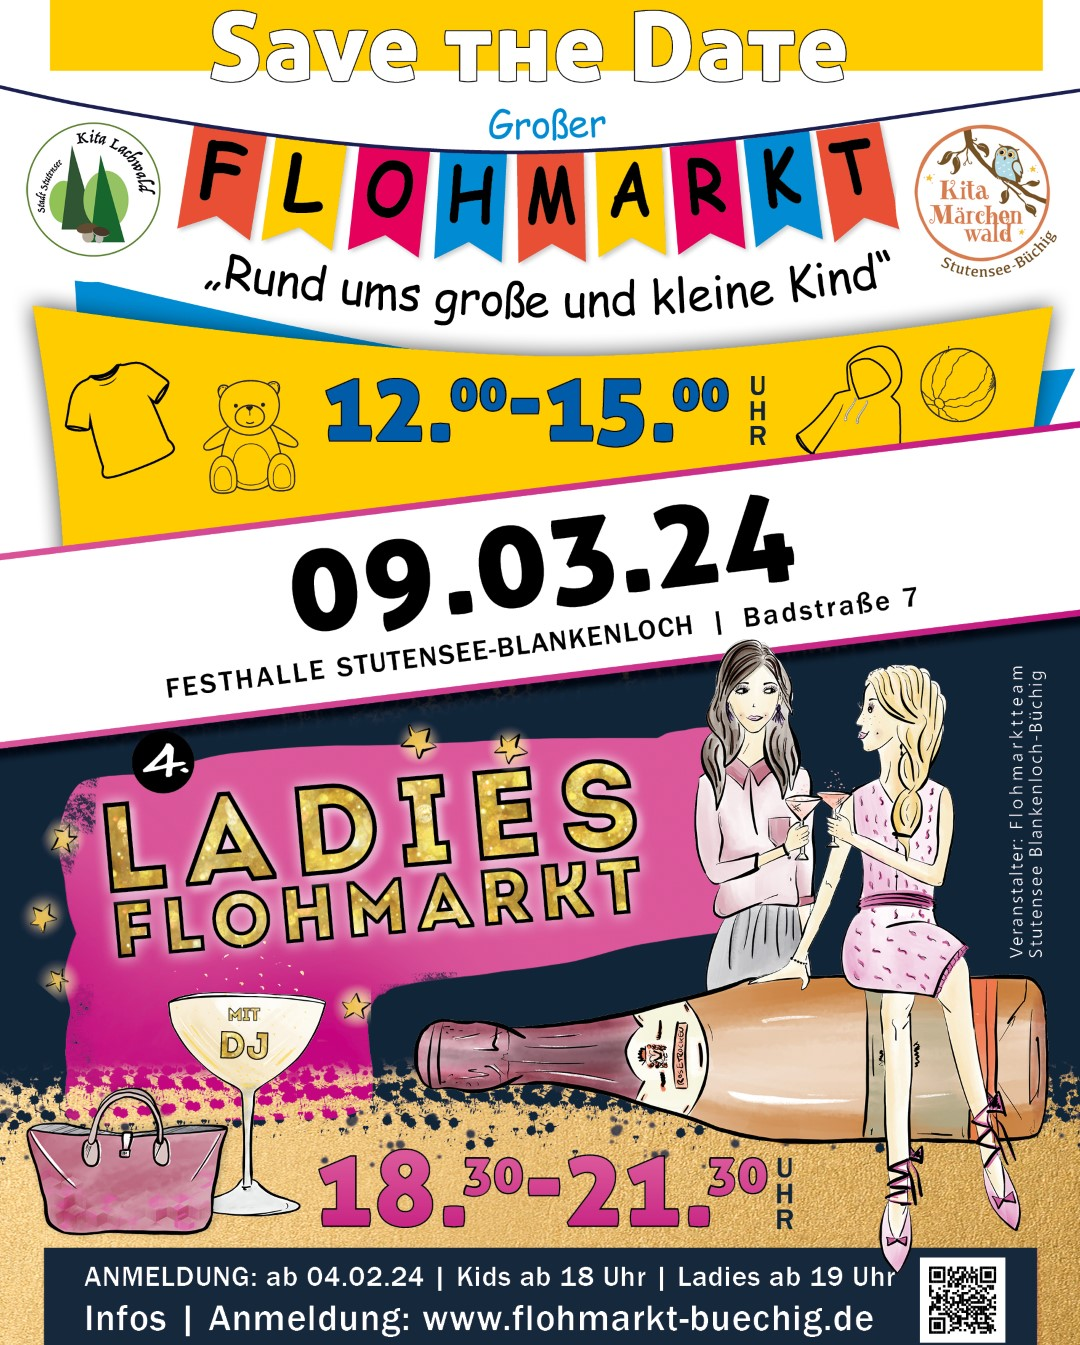
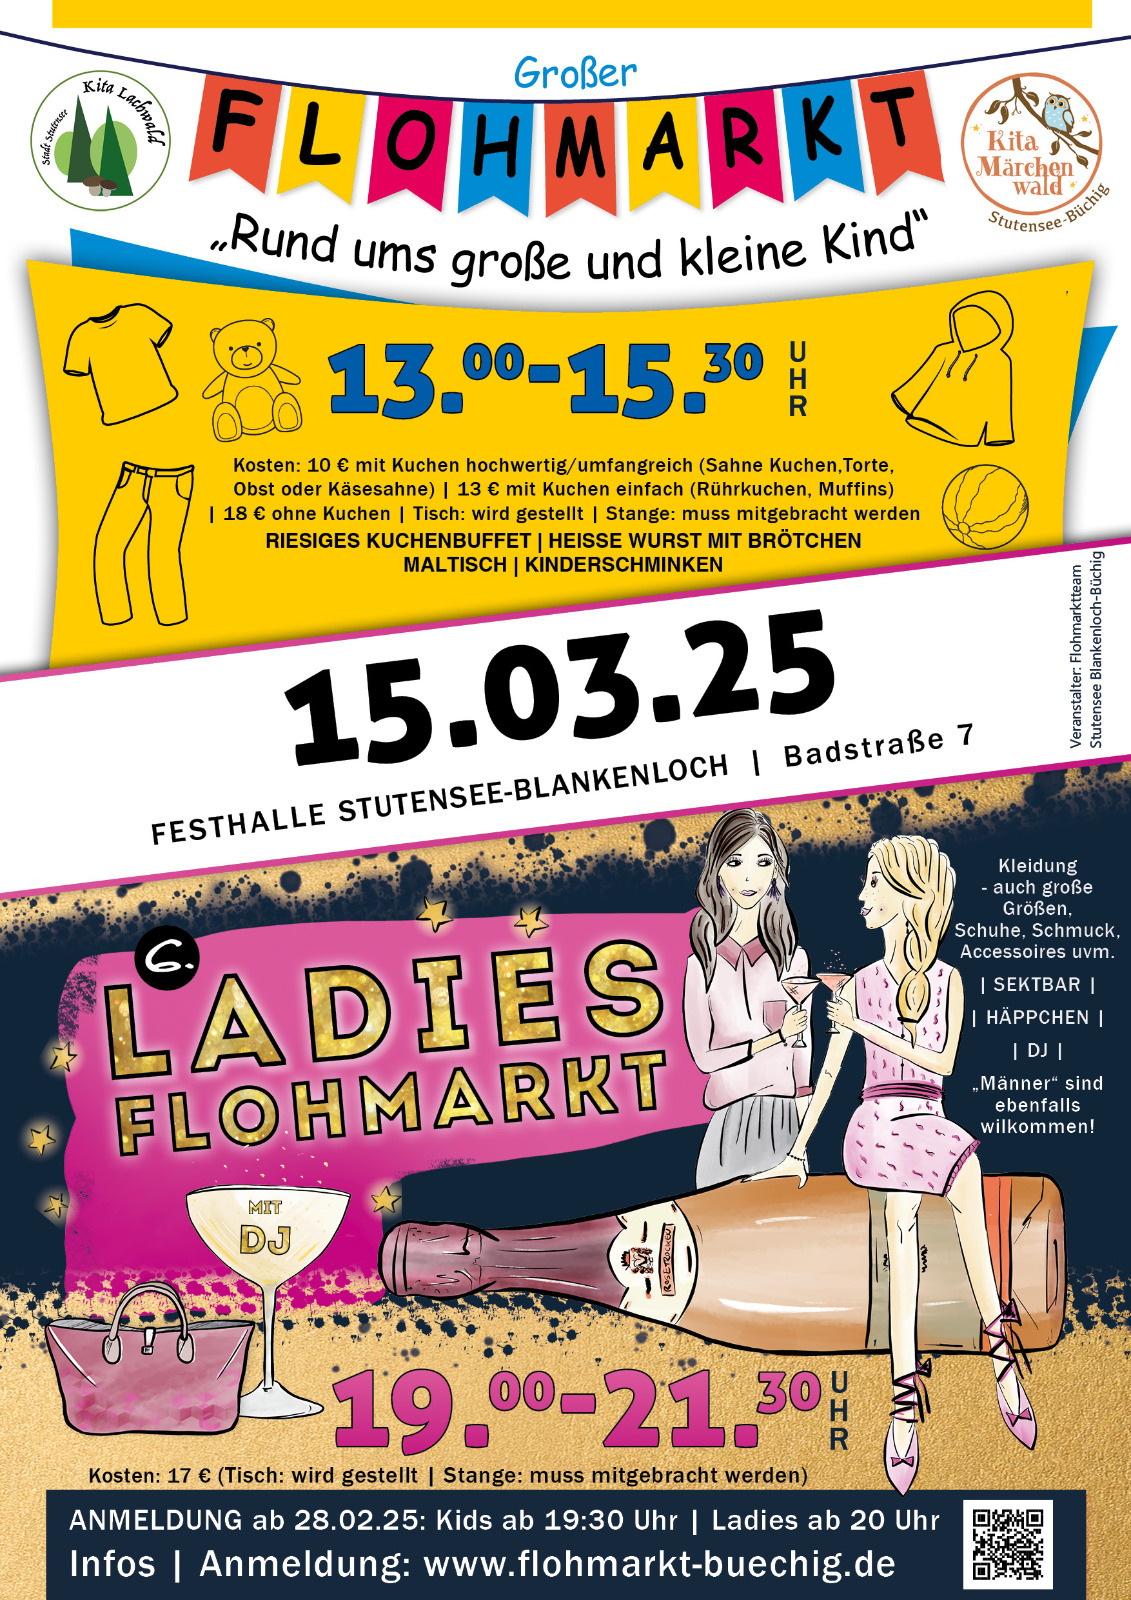
provide flyer for spring 2025

diff --git a/index.html b/index.html
@@ -119,8 +119,9 @@
       <p>Der nächste Flohmarkt findet am 15.03.2025 statt. Bitte komme später nochmal zur Anmeldung vorbei.</p>
       <p>Kontakt: <a href="mailto:team@flohmarkt-buechig.de">team@flohmarkt-buechig.de</a></p>
       <div style="display: flex; justify-content: center; align-items: center;">
-        <img src="kiga1.jpeg" alt="Kindergarten Logo" style="width: 200px;" >
-        <img src="kiga2.jpeg" alt="Kindergarten Logo" style="width: 160px;" >
+        <!--<img src="kiga1.jpeg" alt="Kindergarten Logo" style="width: 200px;" >
+        <img src="kiga2.jpeg" alt="Kindergarten Logo" style="width: 160px;" >-->
+        <img src="flyer_combi.jpg" alt="Flyer" style="width: 400px;" >
       </div>
     </div>
     <div class="wrap-collabsible">
